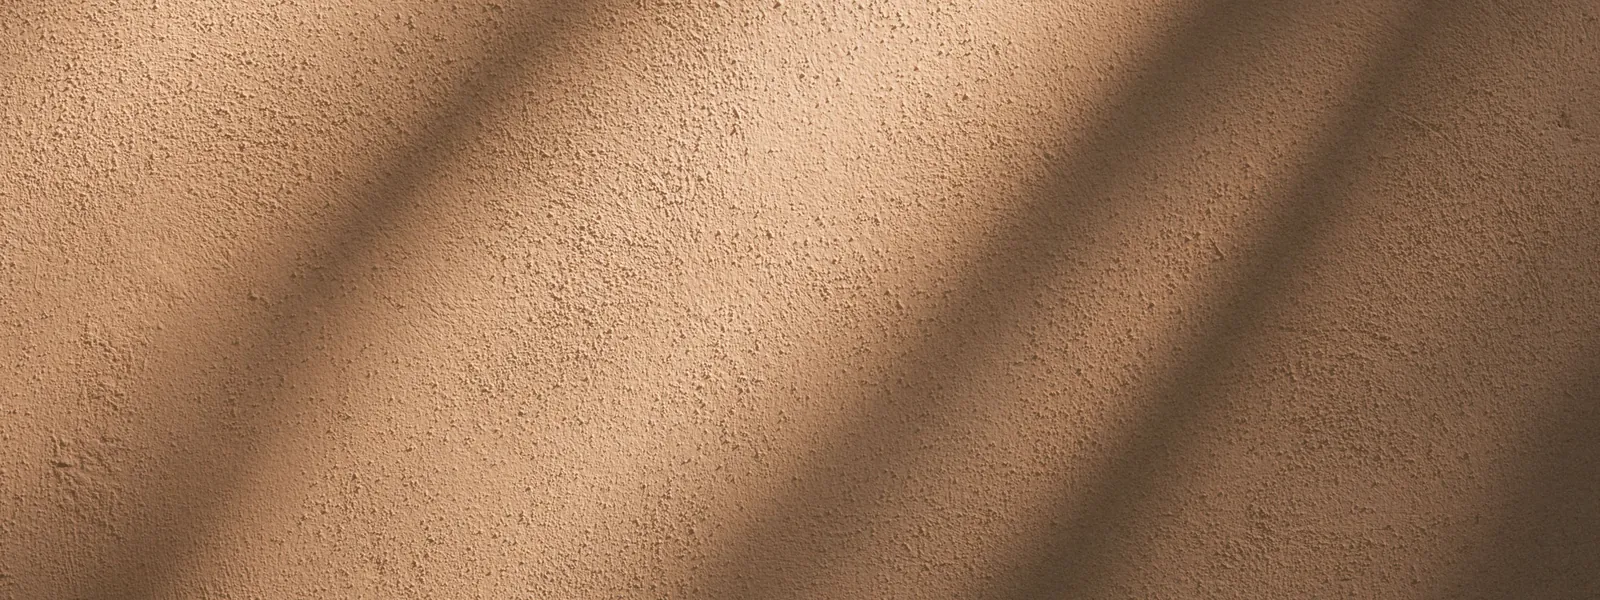
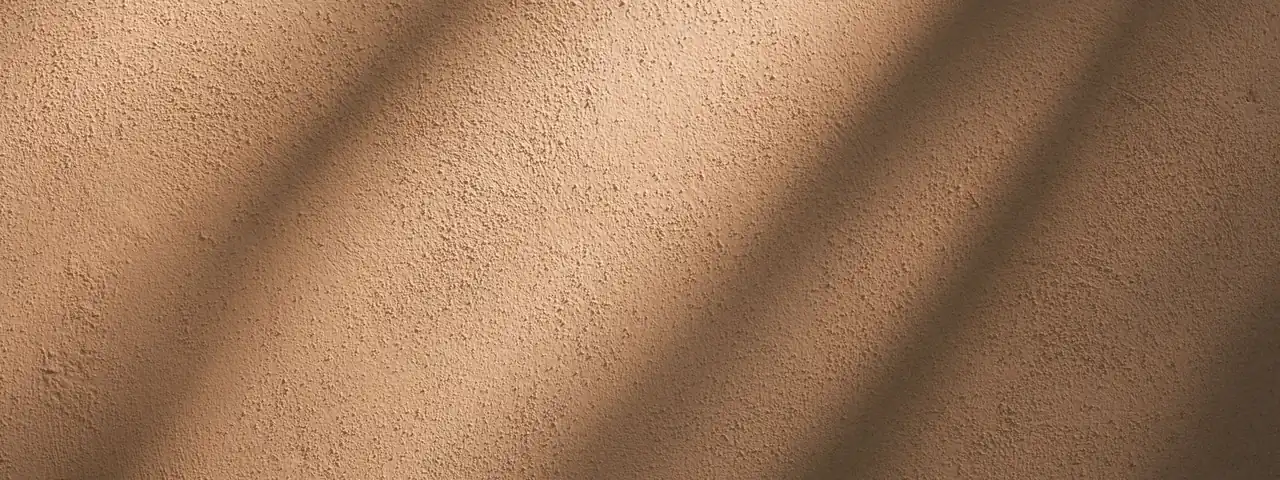
Presupuesto de peso para las fotos y srcset leído del archivo
La sombra sobre el estuco pesaba 353 kB. No era la calidad: una pared
con grano es ruido puro y el webp no lo comprime, así que bajar de 80 a
45 apenas le quitaba 130 kB. Ahora el exportador baja calidad primero y,
cuando eso deja de servir, reduce el tamaño, hasta que la imagen entra en
su presupuesto. Esa banda ha pasado de 353 a 67 kB y la carpeta entera de
1550 a 1030.

Efecto secundario: no todas las bandas miden ya 1600 de ancho, así que
el srcset y el width/height los lee el generador del propio archivo. Si
dijeran 1600w de un archivo de 960, el navegador elegiría mal.

Claude-Session: https://claude.ai/code/session_011wHfbJqYP4QLNR9sNwPVRj

diff --git a/blog/la-factura-que-no-ves/index.html b/blog/la-factura-que-no-ves/index.html
@@ -203,9 +203,9 @@
 
   <figure class="banda">
     <img src="/fotos/banda-factura.webp"
-         srcset="/fotos/banda-factura-m.webp 800w, /fotos/banda-factura.webp 1600w"
+         srcset="/fotos/banda-factura-m.webp 720w, /fotos/banda-factura.webp 1280w"
          sizes="(max-width:720px) 100vw, 680px"
-         width="1600" height="600" loading="lazy" decoding="async"
+         width="1280" height="480" loading="lazy" decoding="async"
          alt="Luz de tarde entrando en diagonal sobre una pared">
   </figure>
 

diff --git a/blog/por-que-lo-repites/index.html b/blog/por-que-lo-repites/index.html
@@ -203,9 +203,9 @@
 
   <figure class="banda">
     <img src="/fotos/banda-repites.webp"
-         srcset="/fotos/banda-repites-m.webp 800w, /fotos/banda-repites.webp 1600w"
+         srcset="/fotos/banda-repites-m.webp 720w, /fotos/banda-repites.webp 960w"
          sizes="(max-width:720px) 100vw, 680px"
-         width="1600" height="600" loading="lazy" decoding="async"
+         width="960" height="360" loading="lazy" decoding="async"
          alt="Sombras de una barandilla repetidas sobre una pared">
   </figure>
 
